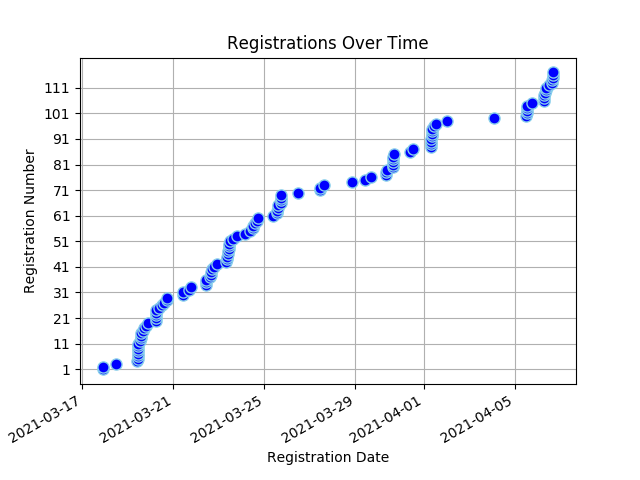
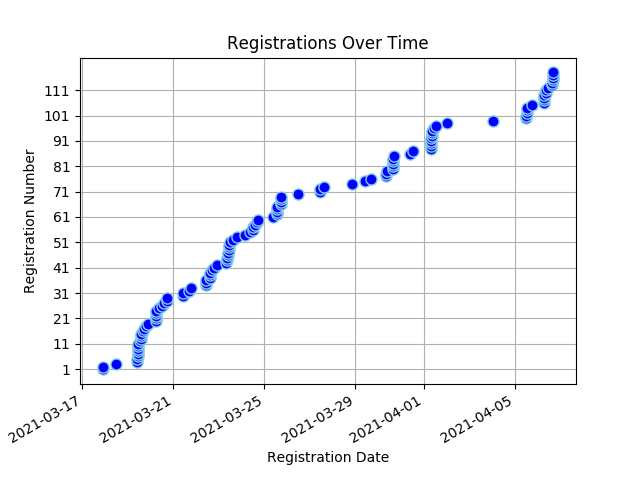
Registree stats backup on Tue 06 Apr 2021 17:03:11 SAST

Changed region(s): [[0.0625, 0.1562, 0.9062, 0.7188], [0.1875, 0.75, 0.2188, 0.7812]]

diff --git a/content/registrees/_index.md b/content/registrees/_index.md
@@ -3,9 +3,9 @@ title: Registration Stats
 draft: false
 ---
 
-<ul><li><strong>Number of Registrees</strong>: 117</li>
+<ul><li><strong>Number of Registrees</strong>: 118</li>
 
-<li><strong>Number of Clubs</strong>: 45</li>
+<li><strong>Number of Clubs</strong>: 46</li>
 
 <li><strong>Club With Most Attendees</strong>: Windhoek (11 registrees)</li>
 </ul><h2>Registrees</h2>
@@ -33,6 +33,6 @@ draft: false
         </tr>
     </thead>
     <tbody>
-<tr><td>Natalie Abrahams</td><td>Cape Town</td><td>410W</td></tr><tr><td>Linda Anderson</td><td>George</td><td>410W</td></tr><tr><td>Linda Baumgarten</td><td>Sea Point</td><td>410W</td></tr><tr><td>Ulrike Behrens</td><td>Windhoek</td><td>410W</td></tr><tr><td>Valencia Beukes-Williams</td><td>Kuilsriver</td><td>410W</td></tr><tr><td>JOSE BRAGA BORGES</td><td>Malmesbury</td><td>410W</td></tr><tr><td>Paul Brauteseth</td><td>Port Shepstone</td><td>410E</td></tr><tr><td>Herman Cadman</td><td>Stellenbosch</td><td>410W</td></tr><tr><td>Linda Ann Cannone</td><td>Fish Hoek</td><td>410W</td></tr><tr><td>Sue Charles</td><td>Tokai</td><td>410W</td></tr><tr><td>Perry Chetty</td><td>East Coast</td><td>410E</td></tr><tr><td>Esme Cornelius</td><td>Kuilsriver</td><td>410W</td></tr><tr><td>Sharon Cottle</td><td>Groote Schuur</td><td>410W</td></tr><tr><td>Peter Daniel</td><td>Gordons Bay</td><td>410W</td></tr><tr><td>Norma Daniel</td><td>Gordons Bay</td><td>410W</td></tr><tr><td>Engela de Kock</td><td>Swellendam</td><td>410W</td></tr><tr><td>Francois de Kock</td><td>Swellendam</td><td>410W</td></tr><tr><td>ANDRE DE VILLIERS</td><td>Malgas</td><td>410W</td></tr><tr><td>Peggy Du Plooy</td><td>Krugersdorp</td><td>410E</td></tr><tr><td>Ivan Du Plooy</td><td>Krugersdorp</td><td>410E</td></tr><tr><td>Desiree du Toit</td><td>Ramsgate</td><td>410E</td></tr><tr><td>Natalie Etridge</td><td>Sedgefield</td><td>410W</td></tr><tr><td>AIDAN Ewers</td><td>Newlands</td><td>410W</td></tr><tr><td>Roger Fahrbach</td><td>Windhoek</td><td>410W</td></tr><tr><td>Beate Fahrbach</td><td>Windhoek</td><td>410W</td></tr><tr><td>Charles Flanagan</td><td>Tokai</td><td>410W</td></tr><tr><td>Jules Flanagan</td><td>Tokai</td><td>410W</td></tr><tr><td>Martin Froise</td><td>Letaba Tzaneen</td><td>410E</td></tr><tr><td>Viv Grater</td><td>Sedgefield</td><td>410W</td></tr><tr><td>Mattheus Groves</td><td>Sedgefield</td><td>410W</td></tr><tr><td>Barbara Haywood</td><td>Eden</td><td>410W</td></tr><tr><td>Mike Heathcote</td><td>Port Shepstone</td><td>410E</td></tr><tr><td>Dorothy Hess</td><td>Kuilsriver</td><td>410W</td></tr><tr><td>Wendy Higgins</td><td>Wilro Park</td><td>410E</td></tr><tr><td>Jacqui Hocking</td><td>Midrand</td><td>410E</td></tr><tr><td>Cliff Hocking</td><td>Midrand</td><td>410E</td></tr><tr><td>Liz Houston</td><td>Table View</td><td>410W</td></tr><tr><td>John Houston</td><td>Table View</td><td>410W</td></tr><tr><td>Dawid Jacobs</td><td>Durbanville</td><td>410W</td></tr><tr><td>Jean Jacobs</td><td>Mitchells Plain</td><td>410W</td></tr><tr><td>WOLSLEY Jacobson</td><td>Cape Town</td><td>410W</td></tr><tr><td>Grant Jonathan</td><td>Gordons Bay</td><td>410W</td></tr><tr><td>Jerome Kern</td><td>Groote Schuur</td><td>410W</td></tr><tr><td>Ian King</td><td>Alberton</td><td>410E</td></tr><tr><td>Zwaai Kruger</td><td>Sedgefield</td><td>410W</td></tr><tr><td>Bevil Lakay</td><td>Mitchells Plain</td><td>410W</td></tr><tr><td>Paula Lang</td><td>Gordons Bay</td><td>410W</td></tr><tr><td>Jimmy Lang</td><td>Gordons Bay</td><td>410W</td></tr><tr><td>Heather Lee</td><td>Cape Of Good Hope</td><td>410W</td></tr><tr><td>Zarina Luck</td><td>Newcastle</td><td>410E</td></tr><tr><td>Sharon Mangwende</td><td>Cape Town</td><td>410W</td></tr><tr><td>Beaulieu Mare</td><td>Benoni Lakes</td><td>410E</td></tr><tr><td>Jean Masson</td><td>Port Shepstone</td><td>410E</td></tr><tr><td>LANCE MAYTHAM</td><td>Swellendam</td><td>410W</td></tr><tr><td>ROSEMARIE MAYTHAM</td><td>Swellendam</td><td>410W</td></tr><tr><td>David Mccullough</td><td>Pretoria South</td><td>410E</td></tr><tr><td>Alec McKerrow</td><td>Port Alfred</td><td>410E</td></tr><tr><td>Mark Meltzer</td><td>The Wilds</td><td>410E</td></tr><tr><td>Denis Meyer</td><td>Port Shepstone</td><td>410E</td></tr><tr><td>Roy Michas</td><td>Midrand</td><td>410E</td></tr><tr><td>Dawn Michas</td><td>Midrand</td><td>410E</td></tr><tr><td>BERNICE MILLS</td><td>Centurion</td><td>410E</td></tr><tr><td>Patrick Mills</td><td>Centurion</td><td>410E</td></tr><tr><td>Cherie Milosevich</td><td>Milnerton</td><td>410W</td></tr><tr><td>Virginia Mkhize</td><td>Cape Town</td><td>410W</td></tr><tr><td>Bernadine Moses</td><td>Cape Town</td><td>410W</td></tr><tr><td>Pieter Nel</td><td>George</td><td>410W</td></tr><tr><td>Tillie Nel</td><td>Eden</td><td>410W</td></tr><tr><td>Mike Newlands</td><td>Port Alfred</td><td>410E</td></tr><tr><td>Mike Newlands</td><td>Port Alfred</td><td>410E</td></tr><tr><td>Debra Olivier</td><td>Sedgefield</td><td>410W</td></tr><tr><td>Sundru Pillay</td><td>Durbanville</td><td>410W</td></tr><tr><td>BRIAN PORTEOUS</td><td>Hibberdene</td><td>410E</td></tr><tr><td>Mark Rossouw</td><td>Tokai</td><td>410W</td></tr><tr><td>Irene Rugheimer</td><td>Bedfordview</td><td>410E</td></tr><tr><td>Ingrid Russell</td><td>Fish Hoek</td><td>410W</td></tr><tr><td>Sharon Sampie</td><td>Bergvliet</td><td>410W</td></tr><tr><td>Frank Schatz</td><td>Windhoek</td><td>410W</td></tr><tr><td>Vera Schatz</td><td>Windhoek</td><td>410W</td></tr><tr><td>Francis Searle</td><td>Kouga</td><td>410E</td></tr><tr><td>Gloria Searle</td><td>Kouga</td><td>410E</td></tr><tr><td>Ami Sell</td><td>Windhoek</td><td>410W</td></tr><tr><td>Beryl Simpson</td><td>Cape Town</td><td>410W</td></tr><tr><td>Kenlis Sircoulomb</td><td>Windhoek</td><td>410W</td></tr><tr><td>Holger Sircoulomb</td><td>Windhoek</td><td>410W</td></tr><tr><td>Hennie Smeer</td><td>Windhoek</td><td>410W</td></tr><tr><td>Sue Smit</td><td>Centurion</td><td>410E</td></tr><tr><td>Herman Smit</td><td>Swellendam</td><td>410W</td></tr><tr><td>Jeff Smith</td><td>Port Shepstone</td><td>410E</td></tr><tr><td>LYN SNYMAN</td><td>Deep South</td><td>410W</td></tr><tr><td>Diana Sochen</td><td>Sea Point</td><td>410W</td></tr><tr><td>Max Stander</td><td>Port Alfred</td><td>410E</td></tr><tr><td>RORY stier</td><td>Deep South</td><td>410W</td></tr><tr><td>Patrick Strauss</td><td>Kuilsriver</td><td>410W</td></tr><tr><td>Lauryn Talbot</td><td>Benoni Lakes</td><td>410E</td></tr><tr><td>Diane Townsend</td><td>Benoni Lakes</td><td>410E</td></tr><tr><td>Alistair Tuckett</td><td>Roodepoort Clearwater Cyber</td><td>410E</td></tr><tr><td>Carl van Blerk</td><td>Eden</td><td>410W</td></tr><tr><td>HILARY LISE VAN BREDA</td><td>Cape Town</td><td>410W</td></tr><tr><td>Marina Van de Merwe</td><td>Malmesbury</td><td>410W</td></tr><tr><td>Sydney van Heerden</td><td>Wilro Park</td><td>410E</td></tr><tr><td>Sandy van Heerden</td><td>Wilro Park</td><td>410E</td></tr><tr><td>Neville Van Rensburg</td><td>Moorreesburg</td><td>410W</td></tr><tr><td>Johan van Rensburg</td><td>Windhoek</td><td>410W</td></tr><tr><td>Anne van Rensburg</td><td>Windhoek</td><td>410W</td></tr><tr><td>Jeannie van Wulven</td><td>Tygerberg Hills</td><td>410W</td></tr><tr><td>Alan van Wulven</td><td>Tygerberg Hills</td><td>410W</td></tr><tr><td>Deon van Wulven</td><td>Tygerberg Hills</td><td>410W</td></tr><tr><td>Kim van Wyk</td><td>North Durban</td><td>410E</td></tr><tr><td>Edith Van Wyk-Nelson</td><td>Kuilsriver</td><td>410W</td></tr><tr><td>Brian von der Decken</td><td>King William's Town</td><td>410E</td></tr><tr><td>Rinette Von Mollendorf</td><td>Durbanville</td><td>410W</td></tr><tr><td>Rochelle Vorster</td><td>Sedgefield</td><td>410W</td></tr><tr><td>Alastair Warman</td><td>Port Shepstone</td><td>410E</td></tr><tr><td>Allan Watson</td><td>Sea Point</td><td>410W</td></tr><tr><td>Neville Williamson</td><td>Port Alfred</td><td>410E</td></tr><tr><td>Judy Young</td><td>Durbanville</td><td>410W</td></tr>
+<tr><td>Natalie Abrahams</td><td>Cape Town</td><td>410W</td></tr><tr><td>Linda Anderson</td><td>George</td><td>410W</td></tr><tr><td>Linda Baumgarten</td><td>Sea Point</td><td>410W</td></tr><tr><td>Ulrike Behrens</td><td>Windhoek</td><td>410W</td></tr><tr><td>Valencia Beukes-Williams</td><td>Kuilsriver</td><td>410W</td></tr><tr><td>JOSE BRAGA BORGES</td><td>Malmesbury</td><td>410W</td></tr><tr><td>Paul Brauteseth</td><td>Port Shepstone</td><td>410E</td></tr><tr><td>Herman Cadman</td><td>Stellenbosch</td><td>410W</td></tr><tr><td>Linda Ann Cannone</td><td>Fish Hoek</td><td>410W</td></tr><tr><td>Sue Charles</td><td>Tokai</td><td>410W</td></tr><tr><td>Perry Chetty</td><td>East Coast</td><td>410E</td></tr><tr><td>Esme Cornelius</td><td>Kuilsriver</td><td>410W</td></tr><tr><td>Sharon Cottle</td><td>Groote Schuur</td><td>410W</td></tr><tr><td>Peter Daniel</td><td>Gordons Bay</td><td>410W</td></tr><tr><td>Norma Daniel</td><td>Gordons Bay</td><td>410W</td></tr><tr><td>Engela de Kock</td><td>Swellendam</td><td>410W</td></tr><tr><td>Francois de Kock</td><td>Swellendam</td><td>410W</td></tr><tr><td>ANDRE DE VILLIERS</td><td>Malgas</td><td>410W</td></tr><tr><td>Peggy Du Plooy</td><td>Krugersdorp</td><td>410E</td></tr><tr><td>Ivan Du Plooy</td><td>Krugersdorp</td><td>410E</td></tr><tr><td>Desiree du Toit</td><td>Ramsgate</td><td>410E</td></tr><tr><td>Natalie Etridge</td><td>Sedgefield</td><td>410W</td></tr><tr><td>AIDAN Ewers</td><td>Newlands</td><td>410W</td></tr><tr><td>Roger Fahrbach</td><td>Windhoek</td><td>410W</td></tr><tr><td>Beate Fahrbach</td><td>Windhoek</td><td>410W</td></tr><tr><td>Charles Flanagan</td><td>Tokai</td><td>410W</td></tr><tr><td>Jules Flanagan</td><td>Tokai</td><td>410W</td></tr><tr><td>Martin Froise</td><td>Letaba Tzaneen</td><td>410E</td></tr><tr><td>Valerie Graham</td><td>Nelspruit</td><td>410E</td></tr><tr><td>Viv Grater</td><td>Sedgefield</td><td>410W</td></tr><tr><td>Mattheus Groves</td><td>Sedgefield</td><td>410W</td></tr><tr><td>Barbara Haywood</td><td>Eden</td><td>410W</td></tr><tr><td>Mike Heathcote</td><td>Port Shepstone</td><td>410E</td></tr><tr><td>Dorothy Hess</td><td>Kuilsriver</td><td>410W</td></tr><tr><td>Wendy Higgins</td><td>Wilro Park</td><td>410E</td></tr><tr><td>Jacqui Hocking</td><td>Midrand</td><td>410E</td></tr><tr><td>Cliff Hocking</td><td>Midrand</td><td>410E</td></tr><tr><td>Liz Houston</td><td>Table View</td><td>410W</td></tr><tr><td>John Houston</td><td>Table View</td><td>410W</td></tr><tr><td>Dawid Jacobs</td><td>Durbanville</td><td>410W</td></tr><tr><td>Jean Jacobs</td><td>Mitchells Plain</td><td>410W</td></tr><tr><td>WOLSLEY Jacobson</td><td>Cape Town</td><td>410W</td></tr><tr><td>Grant Jonathan</td><td>Gordons Bay</td><td>410W</td></tr><tr><td>Jerome Kern</td><td>Groote Schuur</td><td>410W</td></tr><tr><td>Ian King</td><td>Alberton</td><td>410E</td></tr><tr><td>Zwaai Kruger</td><td>Sedgefield</td><td>410W</td></tr><tr><td>Bevil Lakay</td><td>Mitchells Plain</td><td>410W</td></tr><tr><td>Paula Lang</td><td>Gordons Bay</td><td>410W</td></tr><tr><td>Jimmy Lang</td><td>Gordons Bay</td><td>410W</td></tr><tr><td>Heather Lee</td><td>Cape Of Good Hope</td><td>410W</td></tr><tr><td>Zarina Luck</td><td>Newcastle</td><td>410E</td></tr><tr><td>Sharon Mangwende</td><td>Cape Town</td><td>410W</td></tr><tr><td>Beaulieu Mare</td><td>Benoni Lakes</td><td>410E</td></tr><tr><td>Jean Masson</td><td>Port Shepstone</td><td>410E</td></tr><tr><td>LANCE MAYTHAM</td><td>Swellendam</td><td>410W</td></tr><tr><td>ROSEMARIE MAYTHAM</td><td>Swellendam</td><td>410W</td></tr><tr><td>David Mccullough</td><td>Pretoria South</td><td>410E</td></tr><tr><td>Alec McKerrow</td><td>Port Alfred</td><td>410E</td></tr><tr><td>Mark Meltzer</td><td>The Wilds</td><td>410E</td></tr><tr><td>Denis Meyer</td><td>Port Shepstone</td><td>410E</td></tr><tr><td>Roy Michas</td><td>Midrand</td><td>410E</td></tr><tr><td>Dawn Michas</td><td>Midrand</td><td>410E</td></tr><tr><td>BERNICE MILLS</td><td>Centurion</td><td>410E</td></tr><tr><td>Patrick Mills</td><td>Centurion</td><td>410E</td></tr><tr><td>Cherie Milosevich</td><td>Milnerton</td><td>410W</td></tr><tr><td>Virginia Mkhize</td><td>Cape Town</td><td>410W</td></tr><tr><td>Bernadine Moses</td><td>Cape Town</td><td>410W</td></tr><tr><td>Pieter Nel</td><td>George</td><td>410W</td></tr><tr><td>Tillie Nel</td><td>Eden</td><td>410W</td></tr><tr><td>Mike Newlands</td><td>Port Alfred</td><td>410E</td></tr><tr><td>Mike Newlands</td><td>Port Alfred</td><td>410E</td></tr><tr><td>Debra Olivier</td><td>Sedgefield</td><td>410W</td></tr><tr><td>Sundru Pillay</td><td>Durbanville</td><td>410W</td></tr><tr><td>BRIAN PORTEOUS</td><td>Hibberdene</td><td>410E</td></tr><tr><td>Mark Rossouw</td><td>Tokai</td><td>410W</td></tr><tr><td>Irene Rugheimer</td><td>Bedfordview</td><td>410E</td></tr><tr><td>Ingrid Russell</td><td>Fish Hoek</td><td>410W</td></tr><tr><td>Sharon Sampie</td><td>Bergvliet</td><td>410W</td></tr><tr><td>Frank Schatz</td><td>Windhoek</td><td>410W</td></tr><tr><td>Vera Schatz</td><td>Windhoek</td><td>410W</td></tr><tr><td>Francis Searle</td><td>Kouga</td><td>410E</td></tr><tr><td>Gloria Searle</td><td>Kouga</td><td>410E</td></tr><tr><td>Ami Sell</td><td>Windhoek</td><td>410W</td></tr><tr><td>Beryl Simpson</td><td>Cape Town</td><td>410W</td></tr><tr><td>Kenlis Sircoulomb</td><td>Windhoek</td><td>410W</td></tr><tr><td>Holger Sircoulomb</td><td>Windhoek</td><td>410W</td></tr><tr><td>Hennie Smeer</td><td>Windhoek</td><td>410W</td></tr><tr><td>Sue Smit</td><td>Centurion</td><td>410E</td></tr><tr><td>Herman Smit</td><td>Swellendam</td><td>410W</td></tr><tr><td>Jeff Smith</td><td>Port Shepstone</td><td>410E</td></tr><tr><td>LYN SNYMAN</td><td>Deep South</td><td>410W</td></tr><tr><td>Diana Sochen</td><td>Sea Point</td><td>410W</td></tr><tr><td>Max Stander</td><td>Port Alfred</td><td>410E</td></tr><tr><td>RORY stier</td><td>Deep South</td><td>410W</td></tr><tr><td>Patrick Strauss</td><td>Kuilsriver</td><td>410W</td></tr><tr><td>Lauryn Talbot</td><td>Benoni Lakes</td><td>410E</td></tr><tr><td>Diane Townsend</td><td>Benoni Lakes</td><td>410E</td></tr><tr><td>Alistair Tuckett</td><td>Roodepoort Clearwater Cyber</td><td>410E</td></tr><tr><td>Carl van Blerk</td><td>Eden</td><td>410W</td></tr><tr><td>HILARY LISE VAN BREDA</td><td>Cape Town</td><td>410W</td></tr><tr><td>Marina Van de Merwe</td><td>Malmesbury</td><td>410W</td></tr><tr><td>Sydney van Heerden</td><td>Wilro Park</td><td>410E</td></tr><tr><td>Sandy van Heerden</td><td>Wilro Park</td><td>410E</td></tr><tr><td>Neville Van Rensburg</td><td>Moorreesburg</td><td>410W</td></tr><tr><td>Johan van Rensburg</td><td>Windhoek</td><td>410W</td></tr><tr><td>Anne van Rensburg</td><td>Windhoek</td><td>410W</td></tr><tr><td>Jeannie van Wulven</td><td>Tygerberg Hills</td><td>410W</td></tr><tr><td>Alan van Wulven</td><td>Tygerberg Hills</td><td>410W</td></tr><tr><td>Deon van Wulven</td><td>Tygerberg Hills</td><td>410W</td></tr><tr><td>Kim van Wyk</td><td>North Durban</td><td>410E</td></tr><tr><td>Edith Van Wyk-Nelson</td><td>Kuilsriver</td><td>410W</td></tr><tr><td>Brian von der Decken</td><td>King William's Town</td><td>410E</td></tr><tr><td>Rinette Von Mollendorf</td><td>Durbanville</td><td>410W</td></tr><tr><td>Rochelle Vorster</td><td>Sedgefield</td><td>410W</td></tr><tr><td>Alastair Warman</td><td>Port Shepstone</td><td>410E</td></tr><tr><td>Allan Watson</td><td>Sea Point</td><td>410W</td></tr><tr><td>Neville Williamson</td><td>Port Alfred</td><td>410E</td></tr><tr><td>Judy Young</td><td>Durbanville</td><td>410W</td></tr>
 </tbody>
 </table>

diff --git a/content/full_stats/_index.md b/content/full_stats/_index.md
@@ -16,17 +16,17 @@ draft: false
 </head>
 <body>
 <h1 style="color: #000000;">Full Registration Stats</h1>
-<ul><li><strong>Number of Registrees</strong>: 117</li>
-<li><strong>Number of Clubs</strong>: 45</li>
+<ul><li><strong>Number of Registrees</strong>: 118</li>
+<li><strong>Number of Clubs</strong>: 46</li>
 <li><strong>Club With Most Attendees</strong>: Windhoek (11 registrees)</li>
 
 <li><strong>Number of District 410W Convention Attendees</strong>: 75</li>
 <li><strong>Number of District 410W Convention Voters</strong>: 37</li>
-<li><strong>Number of District 410E Convention Attendees</strong>: 39</li>
-<li><strong>Number of District 410E Convention Voters</strong>: 22</li>
+<li><strong>Number of District 410E Convention Attendees</strong>: 40</li>
+<li><strong>Number of District 410E Convention Voters</strong>: 23</li>
 
-<li><strong>Number of MD410 Convention Attendees</strong>: 101</li>
-<li><strong>Number of MD410 Convention Voters</strong>: 55</li>
+<li><strong>Number of MD410 Convention Attendees</strong>: 102</li>
+<li><strong>Number of MD410 Convention Voters</strong>: 56</li>
 
 </ul>
 <h2>Registrees</h2>
@@ -361,6 +361,17 @@ draft: false
 <td>107</td>
 <td>Martin Froise</td>
 <td>Letaba Tzaneen</td>
+<td>410E</td>
+<td style="background-color: lightgreen">Yes</td>
+<td style="background-color: lightgreen">Yes</td>
+<td style="background-color: lightgreen">Yes</td>
+<td>No</td>
+</tr>
+
+    
+<td>125</td>
+<td>Valerie Graham</td>
+<td>Nelspruit</td>
 <td>410E</td>
 <td style="background-color: lightgreen">Yes</td>
 <td style="background-color: lightgreen">Yes</td>
